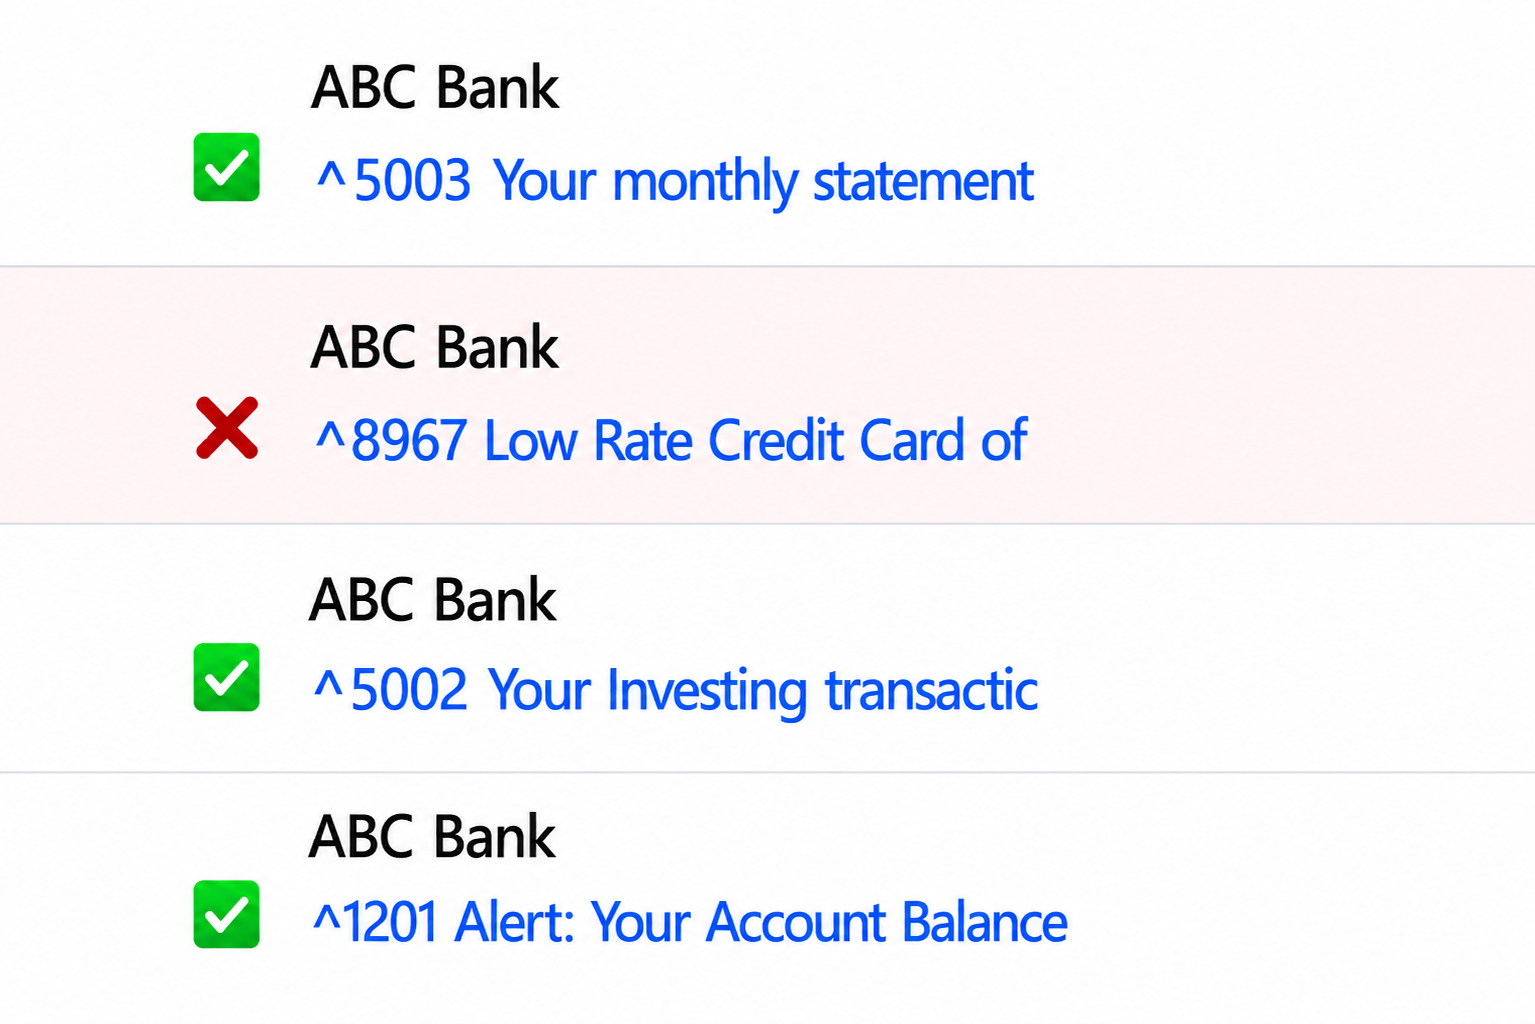
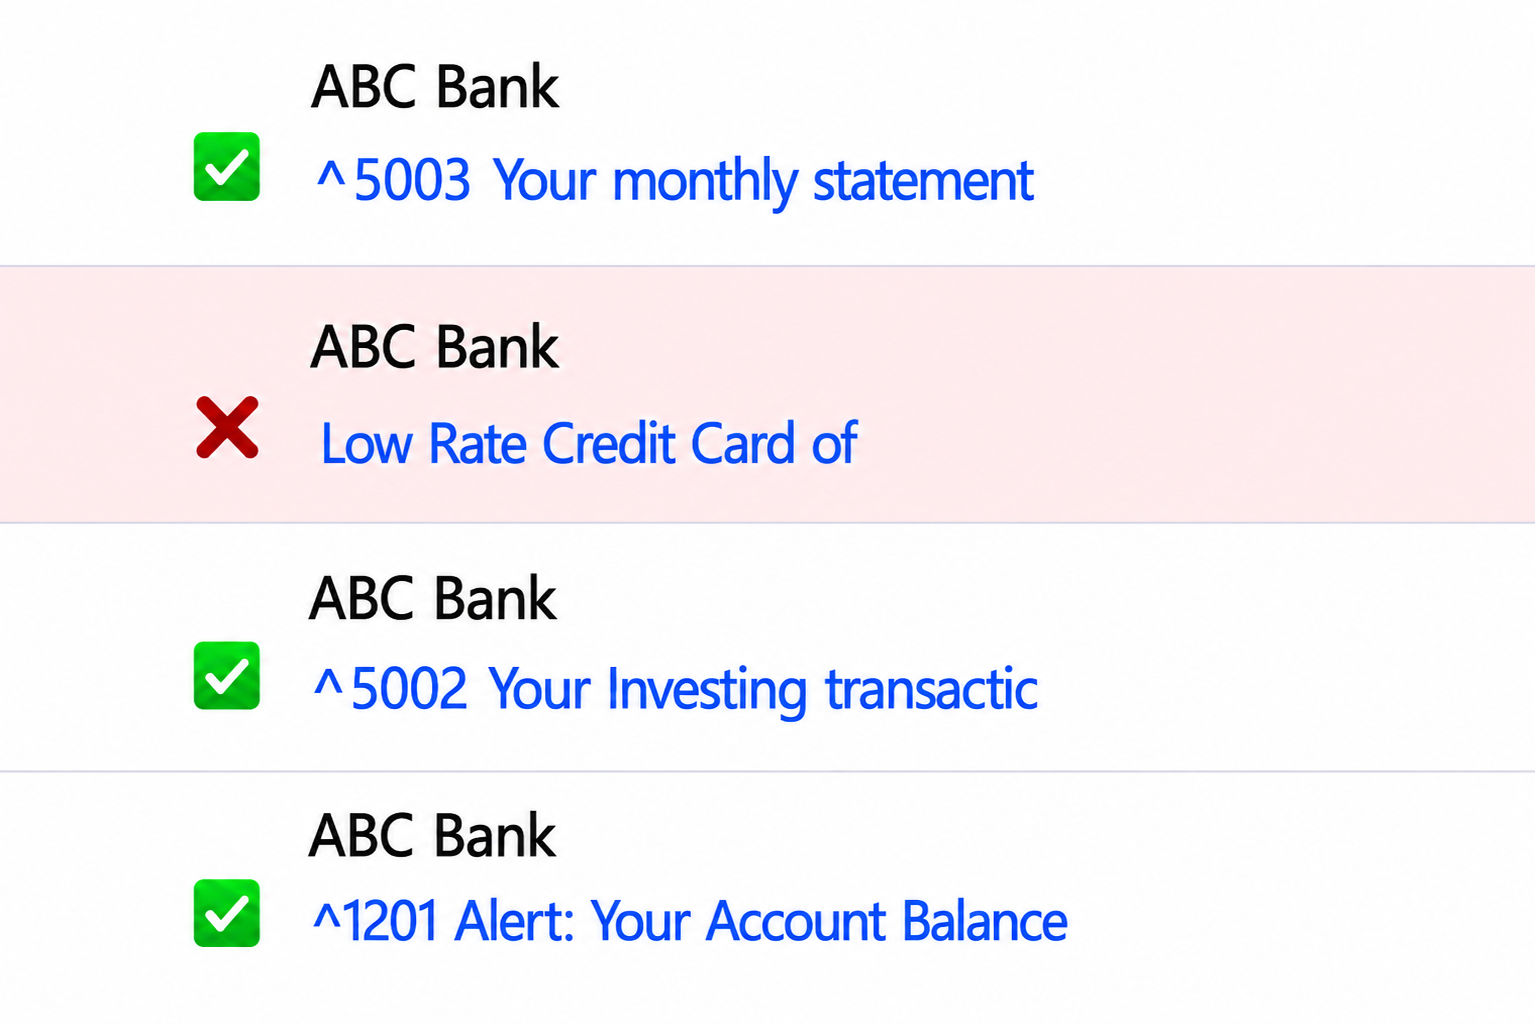
Video page: always show page-number row, sequential numbering per category; history card hover-scale; period after numbering-history caption
Claude-Session: https://claude.ai/code/session_015gE92ux7joRBqrb9DiBaXq

diff --git a/src/pages/Video.jsx b/src/pages/Video.jsx
@@ -202,7 +202,13 @@ export default function Video() {
         ? 3
         : null,
   );
-  const categoryAllVideos = categoryVideos(activeCategory);
+  const categoryAllVideosRaw = categoryVideos(activeCategory);
+  // Number every real video sequentially within its category, starting at 1;
+  // placeholders ("Coming Soon") stay unnumbered.
+  let realCounter = 0;
+  const categoryAllVideos = categoryAllVideosRaw.map((v) =>
+    v.type === "placeholder" ? v : { ...v, number: ++realCounter },
+  );
   const realVideos = categoryAllVideos.filter((v) => v.type !== "placeholder");
   const hasMultiplePages = realVideos.length > VIDEOS_PER_PAGE;
   const totalPages = hasMultiplePages
@@ -326,7 +332,10 @@ export default function Video() {
                     )}
                   </div>
                   <div className="bg-white px-3 py-3">
-                    <p className="text-[13px] font-semibold text-ink">{v.title}</p>
+                    <p className="text-[13px] font-semibold text-ink">
+                      {v.number ? `${v.number}: ` : ""}
+                      {v.title}
+                    </p>
                     <p className="mt-1 text-[12px] leading-snug text-ink/70">{v.description}</p>
                   </div>
                 </div>
@@ -334,28 +343,26 @@ export default function Video() {
             })}
           </div>
 
-          {hasMultiplePages && (
-            <div className="mt-8 flex justify-center gap-2 sm:mt-10">
-              {Array.from({ length: totalPages }, (_, i) => i + 1).map((n) => (
-                <button
-                  key={n}
-                  type="button"
-                  onClick={() => {
-                    setPlaying(null);
-                    setPage(n);
-                  }}
-                  aria-current={n === page ? "page" : undefined}
-                  className={`h-8 w-8 rounded-full text-[13px] font-medium transition-colors ${
-                    n === page
-                      ? "bg-[#5a6066] text-white"
-                      : "text-ink-muted hover:bg-gray-100 hover:text-ink"
-                  }`}
-                >
-                  {n}
-                </button>
-              ))}
-            </div>
-          )}
+          <div className="mt-8 flex justify-center gap-2 sm:mt-10">
+            {Array.from({ length: totalPages }, (_, i) => i + 1).map((n) => (
+              <button
+                key={n}
+                type="button"
+                onClick={() => {
+                  setPlaying(null);
+                  setPage(n);
+                }}
+                aria-current={n === page ? "page" : undefined}
+                className={`h-8 w-8 rounded-full text-[13px] font-medium transition-colors ${
+                  n === page
+                    ? "bg-[#5a6066] text-white"
+                    : "text-ink-muted hover:bg-gray-100 hover:text-ink"
+                }`}
+              >
+                {n}
+              </button>
+            ))}
+          </div>
         </div>
       </section>
     </>

diff --git a/src/pages/Home.jsx b/src/pages/Home.jsx
@@ -660,7 +660,7 @@ export default function Home() {
                 />
               </div>
               <p className="mt-4 max-w-[320px] text-center text-[14px] leading-[1.5] text-ink-muted sm:text-[15px]">
-                Sequential page numbering brings order
+                Sequential page numbering brings order.
               </p>
             </div>
 
@@ -684,7 +684,7 @@ export default function Home() {
               <span className="relative z-10 mb-6 rounded-full bg-[#eef0f4] px-3 text-[28px] font-bold tracking-tight text-ink sm:text-[32px]">
                 2026
               </span>
-              <div className="flex aspect-[1448/1017] w-full max-w-[320px] items-center justify-center overflow-hidden rounded-2xl border-2 border-black bg-white p-1 shadow-[0_10px_24px_rgba(15,23,42,0.06)]">
+              <div className="flex aspect-[1448/1017] w-full max-w-[320px] items-center justify-center overflow-hidden rounded-2xl border-2 border-black bg-white p-1 shadow-[0_10px_24px_rgba(15,23,42,0.06)] transition-transform duration-300 ease-out hover:z-10 hover:scale-[1.2]">
                 <img
                   src="/assets/images/footer%20history%20pic%203rd.png"
                   alt="PhishFlagger inbox demonstration"
